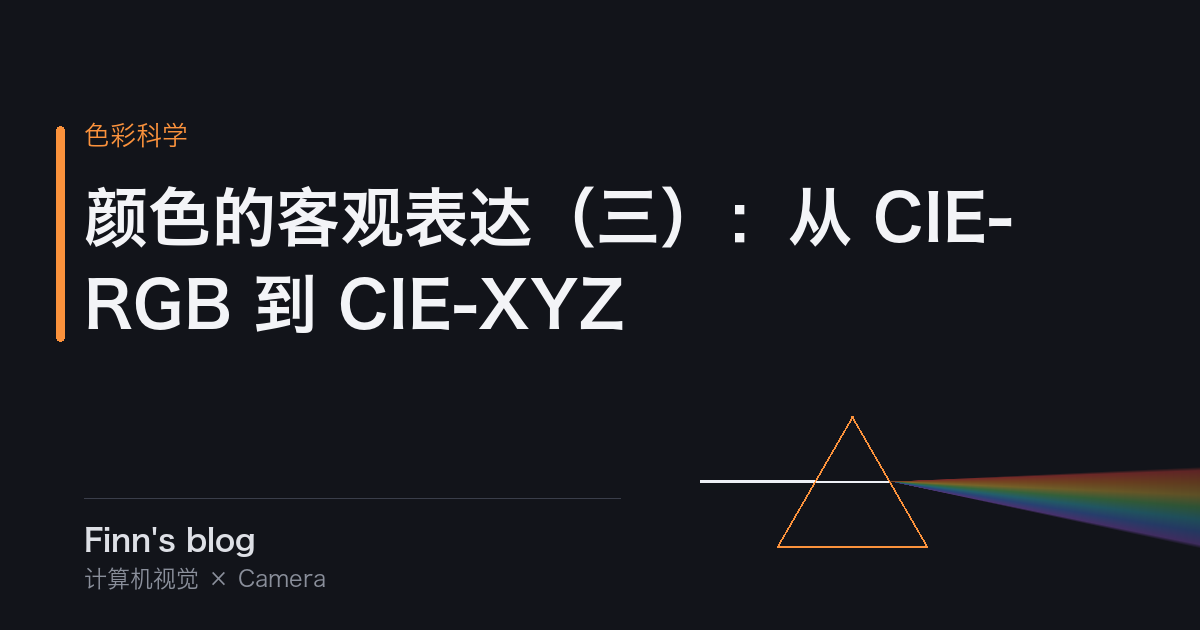
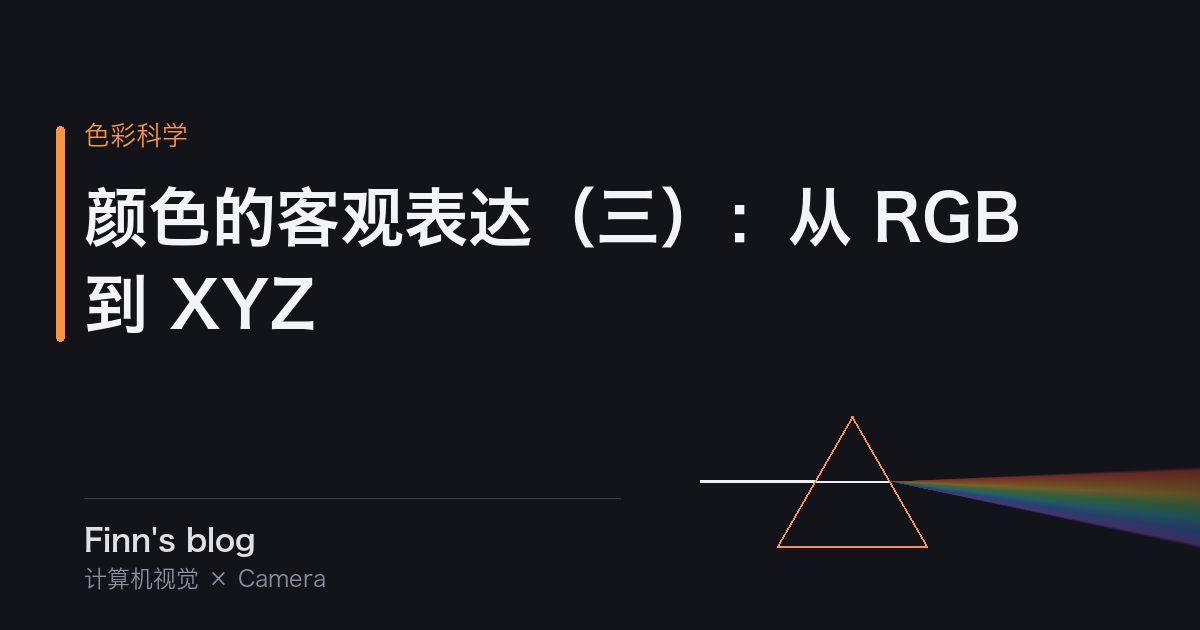
[bugfix] 第 30 回标题缩短为「从 RGB 到 XYZ」
原标题在首页卡片右侧折成两行，卡片变高后左侧 OG 图被放大裁切，
与前两篇不对齐。标题按同一字体量宽度与第 29 回持平，URL 不变；
OG 图与脚本 docstring 同步更新。

Changed region(s): [[0.0617, 0.4222, 0.5242, 0.5429], [0.7092, 0.3016, 0.8633, 0.3921]]

diff --git a/tools/generate_cie_rgb_xyz_figures.py b/tools/generate_cie_rgb_xyz_figures.py
@@ -1,5 +1,5 @@
 #!/usr/bin/env python3
-"""重绘《颜色的客观表达（三）：从 CIE-RGB 到 CIE-XYZ》的插图。
+"""重绘《颜色的客观表达（三）：从 RGB 到 XYZ》的插图。
 
 原文（CCS「光と色の話」第 30 回）的插图是日文 PNG，这里按同系列前几篇的配色
 与版式重画一遍，文字全部换成中文。

diff --git a/_posts/2026-09-20-CIE-RGB-to-XYZ.md b/_posts/2026-09-20-CIE-RGB-to-XYZ.md
@@ -1,13 +1,13 @@
 ---
 layout: post
-title: "颜色的客观表达（三）：从 CIE-RGB 到 CIE-XYZ"
+title: "颜色的客观表达（三）：从 RGB 到 XYZ"
 date: 2026-09-20 23:30:00 +0800
 categories: 色彩科学
 tags: [色彩科学, 表色系, CIE, 等色函数]
 math: true
 image:
   path: /assets/resource/og/CIE-RGB-to-XYZ.png
-  alt: "颜色的客观表达（三）：从 CIE-RGB 到 CIE-XYZ"
+  alt: "颜色的客观表达（三）：从 RGB 到 XYZ"
 ---
 
 > 本文整理自 CCS 株式会社的技术专栏「光と色の話」第 30 回，是「颜色的客观表达」三篇中的最后一篇。原文（日文）：[vol.30](https://www.ccs-inc.co.jp/guide/column/light_color/vol30.html)。
